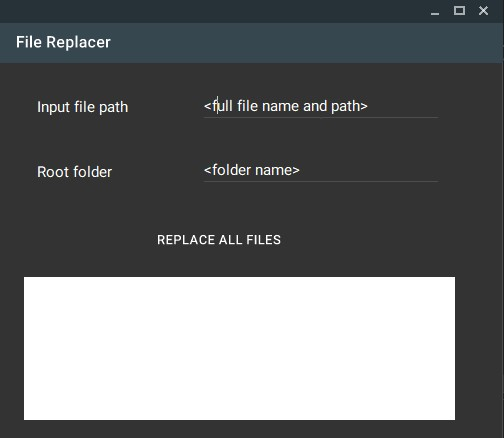
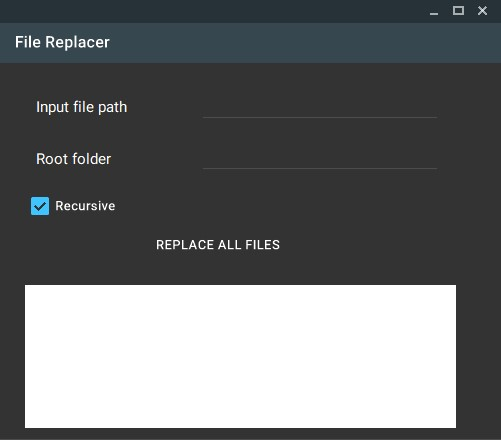
add recursive support

diff --git a/src/file-replacer/Form1.Designer.cs b/src/file-replacer/Form1.Designer.cs
@@ -34,6 +34,7 @@
             this.materialLabel1 = new MaterialSkin.Controls.MaterialLabel();
             this.materialFlatButton1 = new MaterialSkin.Controls.MaterialFlatButton();
             this.loggerListBox = new System.Windows.Forms.ListBox();
+            this.recursiveCheckBox = new MaterialSkin.Controls.MaterialCheckBox();
             this.SuspendLayout();
             // 
             // sourceTextField
@@ -68,7 +69,7 @@
             // 
             this.destTextField.Depth = 0;
             this.destTextField.Hint = "";
-            this.destTextField.Location = new System.Drawing.Point(205, 161);
+            this.destTextField.Location = new System.Drawing.Point(205, 148);
             this.destTextField.MouseState = MaterialSkin.MouseState.HOVER;
             this.destTextField.Name = "destTextField";
             this.destTextField.PasswordChar = '\0';
@@ -77,7 +78,6 @@
             this.destTextField.SelectionStart = 0;
             this.destTextField.Size = new System.Drawing.Size(234, 23);
             this.destTextField.TabIndex = 2;
-            this.destTextField.Text = "C:\\portalpms";
             this.destTextField.UseSystemPasswordChar = false;
             // 
             // materialLabel1
@@ -86,7 +86,7 @@
             this.materialLabel1.Depth = 0;
             this.materialLabel1.Font = new System.Drawing.Font("Roboto", 11F);
             this.materialLabel1.ForeColor = System.Drawing.Color.FromArgb(((int)(((byte)(222)))), ((int)(((byte)(0)))), ((int)(((byte)(0)))), ((int)(((byte)(0)))));
-            this.materialLabel1.Location = new System.Drawing.Point(34, 163);
+            this.materialLabel1.Location = new System.Drawing.Point(34, 150);
             this.materialLabel1.MouseState = MaterialSkin.MouseState.HOVER;
             this.materialLabel1.Name = "materialLabel1";
             this.materialLabel1.Size = new System.Drawing.Size(84, 19);
@@ -98,7 +98,7 @@
             this.materialFlatButton1.AutoSize = true;
             this.materialFlatButton1.AutoSizeMode = System.Windows.Forms.AutoSizeMode.GrowAndShrink;
             this.materialFlatButton1.Depth = 0;
-            this.materialFlatButton1.Location = new System.Drawing.Point(152, 223);
+            this.materialFlatButton1.Location = new System.Drawing.Point(152, 228);
             this.materialFlatButton1.Margin = new System.Windows.Forms.Padding(4, 6, 4, 6);
             this.materialFlatButton1.MouseState = MaterialSkin.MouseState.HOVER;
             this.materialFlatButton1.Name = "materialFlatButton1";
@@ -114,16 +114,35 @@
             this.loggerListBox.BorderStyle = System.Windows.Forms.BorderStyle.None;
             this.loggerListBox.Enabled = false;
             this.loggerListBox.FormattingEnabled = true;
-            this.loggerListBox.Location = new System.Drawing.Point(25, 278);
+            this.loggerListBox.Location = new System.Drawing.Point(27, 286);
             this.loggerListBox.Name = "loggerListBox";
             this.loggerListBox.Size = new System.Drawing.Size(431, 143);
             this.loggerListBox.TabIndex = 100;
+            // 
+            // recursiveCheckBox
+            // 
+            this.recursiveCheckBox.AutoSize = true;
+            this.recursiveCheckBox.Checked = true;
+            this.recursiveCheckBox.CheckState = System.Windows.Forms.CheckState.Checked;
+            this.recursiveCheckBox.Depth = 0;
+            this.recursiveCheckBox.Font = new System.Drawing.Font("Roboto", 10F);
+            this.recursiveCheckBox.Location = new System.Drawing.Point(27, 192);
+            this.recursiveCheckBox.Margin = new System.Windows.Forms.Padding(0);
+            this.recursiveCheckBox.MouseLocation = new System.Drawing.Point(-1, -1);
+            this.recursiveCheckBox.MouseState = MaterialSkin.MouseState.HOVER;
+            this.recursiveCheckBox.Name = "recursiveCheckBox";
+            this.recursiveCheckBox.Ripple = true;
+            this.recursiveCheckBox.Size = new System.Drawing.Size(90, 30);
+            this.recursiveCheckBox.TabIndex = 5;
+            this.recursiveCheckBox.Text = "Recursive";
+            this.recursiveCheckBox.UseVisualStyleBackColor = true;
             // 
             // Form1
             // 
             this.AutoScaleDimensions = new System.Drawing.SizeF(6F, 13F);
             this.AutoScaleMode = System.Windows.Forms.AutoScaleMode.Font;
             this.ClientSize = new System.Drawing.Size(504, 441);
+            this.Controls.Add(this.recursiveCheckBox);
             this.Controls.Add(this.loggerListBox);
             this.Controls.Add(this.materialFlatButton1);
             this.Controls.Add(this.materialLabel1);
@@ -145,6 +164,7 @@
         private MaterialSkin.Controls.MaterialLabel materialLabel1;
         private MaterialSkin.Controls.MaterialFlatButton materialFlatButton1;
         private System.Windows.Forms.ListBox loggerListBox;
+        private MaterialSkin.Controls.MaterialCheckBox recursiveCheckBox;
     }
 }
 

diff --git a/src/file-replacer/Form1.cs b/src/file-replacer/Form1.cs
@@ -3,10 +3,12 @@ using MaterialSkin.Controls;
 using System;
 using System.Collections.Generic;
 using System.ComponentModel;
+using System.Configuration;
 using System.Data;
 using System.Drawing;
 using System.IO;
 using System.Linq;
+using System.Runtime.CompilerServices;
 using System.Text;
 using System.Text.RegularExpressions;
 using System.Threading.Tasks;
@@ -17,6 +19,7 @@ namespace file_replacer
     public partial class Form1 : MaterialForm
     {
         public static ListBoxLog listBoxLog;
+
         public Form1()
         {
             InitializeComponent();
@@ -26,6 +29,7 @@ namespace file_replacer
             materialSkinManager.ColorScheme = new ColorScheme(Primary.BlueGrey800, Primary.BlueGrey900, Primary.BlueGrey500, Accent.LightBlue200, TextShade.WHITE);
             listBoxLog = new ListBoxLog(loggerListBox);
             this.Icon = System.Drawing.Icon.ExtractAssociatedIcon(Application.ExecutablePath);
+            this.destTextField.Text = ConfigurationSettings.AppSettings.Get("defaultLocation");
         }
 
         private void materialFlatButton1_Click(object sender, EventArgs e)
@@ -42,9 +46,9 @@ namespace file_replacer
                 listBoxLog.Log(Level.Error, $"Directory {directoryToTraverse} not exists");
                 return;
             }
-            List<string> filesToReplace = GetFiles(directoryToTraverse, Path.GetFileName(sourceFile));
+            List<string> filesToReplace = GetFiles(directoryToTraverse, Path.GetFileName(sourceFile), this.recursiveCheckBox.Enabled);
             string timeStamp = DateTime.Now.ToString("yyyyMMdd_HHmmss");
-            listBoxLog.Log(Level.Info, $"Process started. Timestamp on the files is {timeStamp}");
+            listBoxLog.Log(Level.Info, $"Process started{(this.recursiveCheckBox.Enabled ? " recursively" : "")}. Timestamp on the files is {timeStamp}");
             foreach (string targetFile in filesToReplace)
             {
                 try
@@ -63,16 +67,17 @@ namespace file_replacer
 
         }
 
-        static List<string> GetFiles(string directoryPath, string fileName)
+        static List<string> GetFiles(string directoryPath, string fileName, bool isRecursive)
         {
             var fileList = new List<string>();
-            foreach (var subDir in Directory.GetDirectories(directoryPath))
+            if (isRecursive)
             {
-                fileList.AddRange(GetFiles(subDir, fileName));
+                foreach (var subDir in Directory.GetDirectories(directoryPath))
+                {
+                    fileList.AddRange(GetFiles(subDir, fileName, isRecursive));
+                }
             }
-
             fileList.AddRange(Directory.GetFiles(directoryPath, fileName));
-
             return fileList;
         }
 

diff --git a/README.md b/README.md
@@ -3,8 +3,9 @@
 
 ## How to use
 - Open the application
-- Select the source file - You should use full file name and path including extension.
-- Select destination dirctory - This is a recursive opeation so all files in sub folders will be replaced as well.
+- Select the source file - Use full file name and path including extension.
+- Select destination dirctory - Selected root directory to apply the replace proceadure.
+- Check/Uncheck Recursive checkbox - checked run recursively on all sub-dirctories, unchecked on the selected directory only.
 - Click "REPLACE ALL FILES" - log messages will apear on the white box.
 
 
